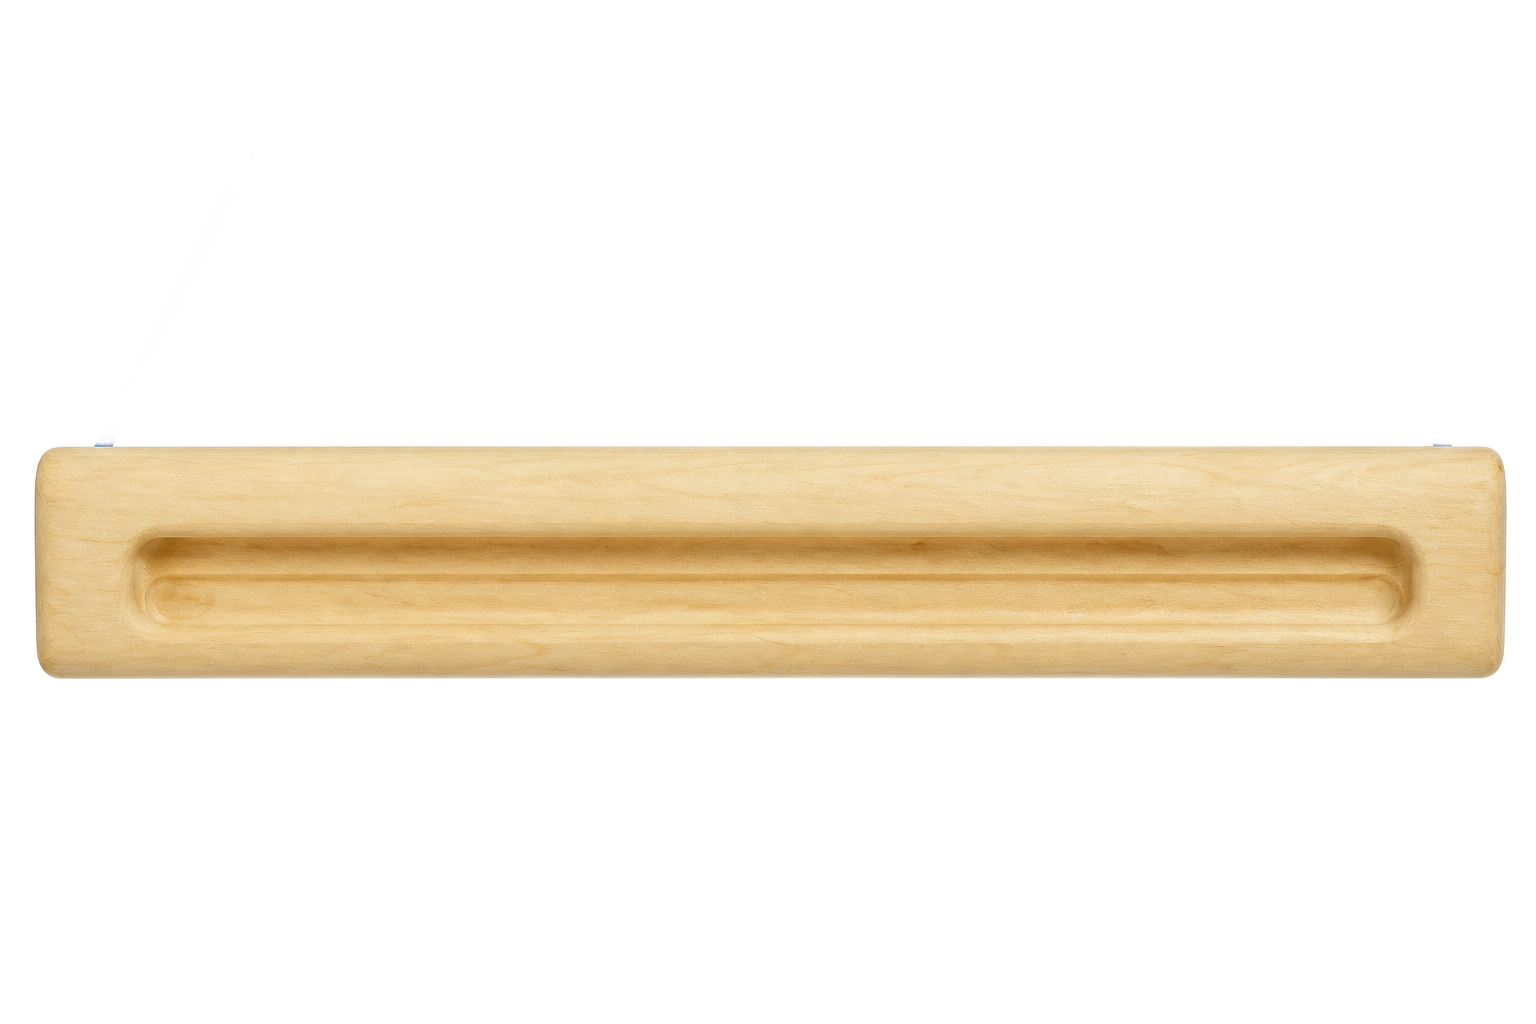
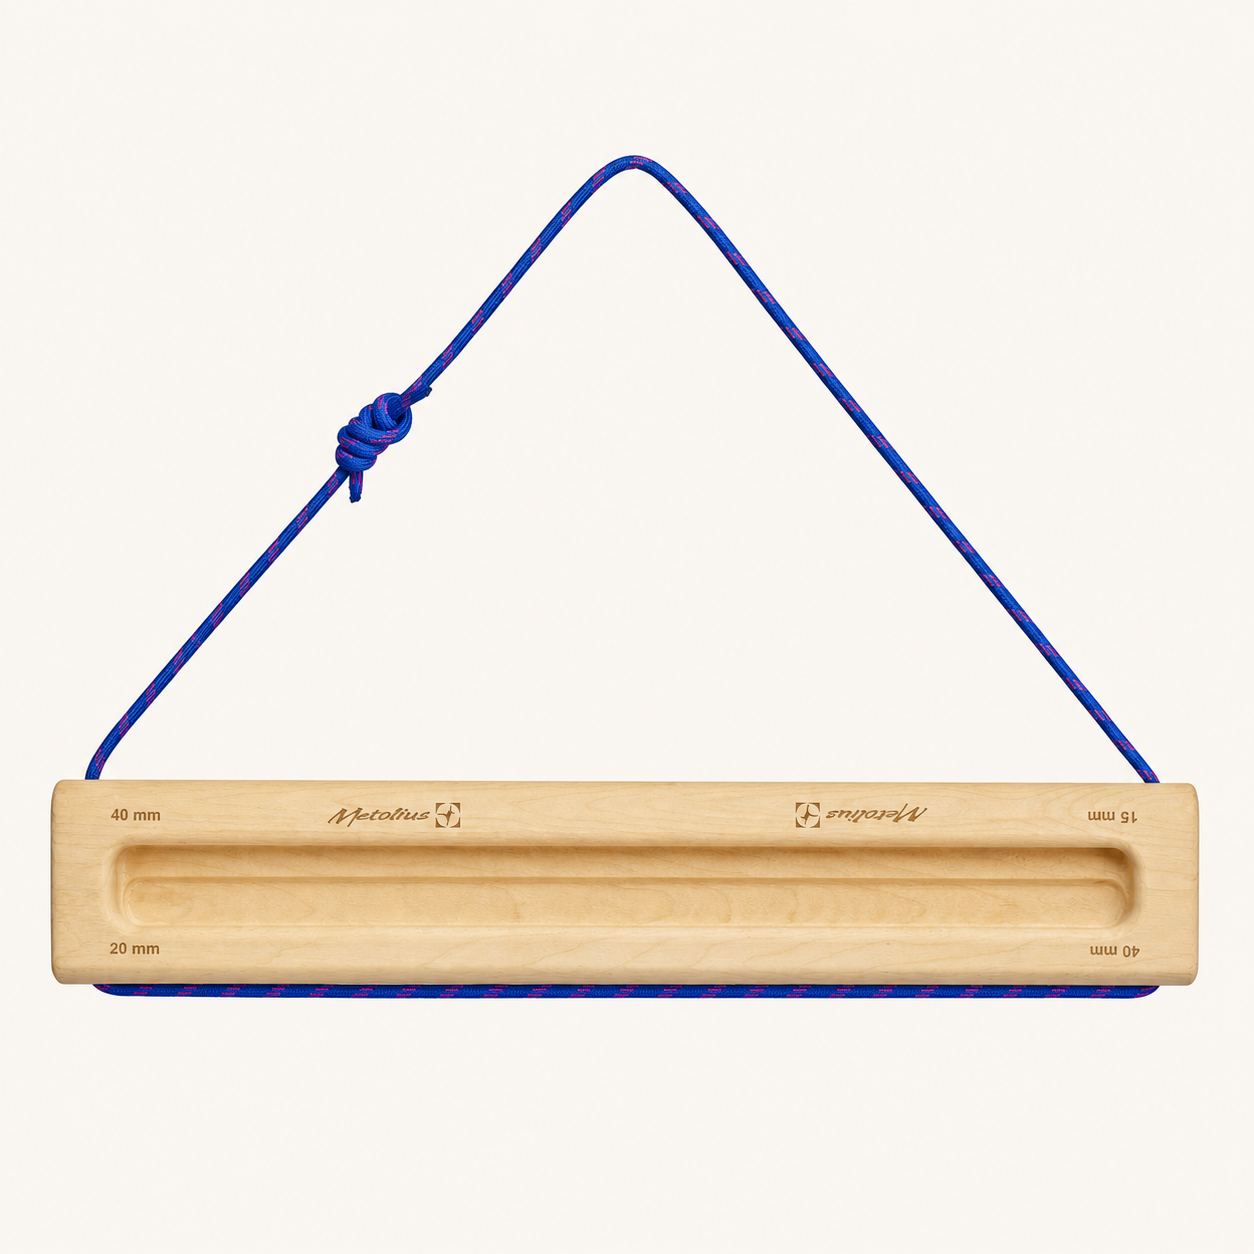
Repair Metolius Light Rail 2 presentations

diff --git a/docs/source-audits/2026-08-30-hangboard-presentation-remediation.md b/docs/source-audits/2026-08-30-hangboard-presentation-remediation.md
@@ -749,3 +749,89 @@ topology, and catalog smoothing/background checks. Final-inventory validation
 and package status passed with 61 packages and no drafts. This deterministic
 recolor/manual-bore repair is the user-approved exception to image generation;
 the schema-2 machine manifest is intentionally unchanged in this bounded pass.
+
+## Metolius Light Rail 2.0 two-position repair (2026-08-31)
+
+The complete current-revision Light Rail 2.0 was freshly re-researched and
+repaired as one atomic reversible product on 2026-08-31. Metolius identifies
+the product as a 18 x 3 x 1.5 in, 0.54 kg portable FSC-certified wooden rail
+whose reversible design yields four holds. The current official product image
+shows one rounded timber body, one long routed channel, a complete blue cord
+with pink flecks and a left knot, upright 40/20 mm markings, and the inverse
+40/15 mm markings. Those four labeled contacts require exactly two physical
+suspension positions: 40/20 mm upright and the same rail inverted in its cord
+with 40/15 mm upright. There is no separate rear working face or third
+mounting position in the current evidence.
+
+Freshly opened evidence:
+
+- Metolius official product page:
+  <https://www.metoliusclimbing.com/products/light-rail>
+- Current official product image:
+  <https://www.metoliusclimbing.com/cdn/shop/files/Light-Rail-2-PT.jpg?v=1767727616>
+- Metolius official training-board manual, whose suspended-device section
+  explicitly covers Light Rails:
+  <https://cdn.shopify.com/s/files/1/0955/0030/4457/files/Training-Board-instructions.pdf?v=1759261826>
+- Treeline Review's independent 2026 hands-on comparison:
+  <https://www.treelinereview.com/gearreviews/best-hangboards-for-climbing>
+- Treeline's published straight-on product view and its genuine tested-at-the-
+  crag owner/reviewer photograph:
+  <https://images.squarespace-cdn.com/content/v1/5b4544e485ede17941bc95fc/b4f8b087-e046-4231-bcbd-f070bb3c85ec/metolius-light-rail-20.jpg>
+  and
+  <https://images.squarespace-cdn.com/content/v1/5b4544e485ede17941bc95fc/452f6e96-37f1-454d-a405-e801658501a5/metolius-light-rail-1.jpg>.
+
+Treeline independently confirms wood construction, single-cord suspension,
+four contacts, and the same one-channel silhouette. Its table reports measured
+edge values that differ slightly from Metolius's current 15/20/40 mm copy;
+the package keeps the manufacturer's current specification and the depth
+markings visibly published on both official and independent photos. Older
+38/18/13 mm images with metal end brackets are a prior revision and were
+explicitly excluded from the current 2.0 render.
+
+The built-in image tool produced one source-constrained candidate for each
+distinct operating position. The 20 mm prompt required the exact current
+single-piece rounded FSC-wood rail, one routed channel, complete blue/pink cord
+loop and left knot, upright 40/20 mm and inverse 40/15 mm markings and Metolius
+marks, a straight-on orthographic working face, no metal brackets, and a warm
+off-white studio field. The 15 mm prompt used the official image and accepted
+20 mm candidate as references, kept the cord above the rail, and required the
+wooden body to be physically inverted so 40/15 mm reads upright while the
+40/20 mm markings read upside-down. Both prompts prohibited crop, perspective,
+extra grooves, extra holes, hardware, hands, walls, and watermarks. Both first
+candidates passed; no second iteration was used.
+
+| Presentation | Declared asset | Scoped holds | Old SHA-256 / dimensions | New SHA-256 / dimensions | Result |
+| --- | --- | --- | --- | --- | --- |
[2 lines of base64/hex data omitted]
+
+The accepted outputs were already the same square canvas, so they were copied
+without resize, crop, padding, stretch, perspective warp, mask, segmentation,
+registration, or local filtering. Each presentation is independently head-on
+to its active working surface: the rail and routed channel edges are horizontal
+and parallel, left/right ends have equal scale, and neither exposes side-depth
+foreshortening. Both include the complete suspension loop, knot/tail, and lower
+cord return. They share one pale natural-wood treatment, subtle grain, soft
+recess lighting, off-white field, edge softness, and smoothing level. A
+side-by-side catalog check against the head-on Frictitious Port-A-Board wood
+presentation confirmed compatible wood texture, recessed shading, cord detail,
+and studio treatment.
+
+Because the new canvases changed the board's placement, the four existing
+rounded-rectangle paths were deliberately repositioned without changing hold
+IDs, kinds, depths, equipment ownership, path command topology, constraints,
+or presentation assignments. Both 40 mm frames are now
+`(0.041, 0.624, 0.916, 0.041)`; the 20 mm channel frame is
+`(0.079, 0.674, 0.842, 0.070)` and the 15 mm channel frame is
+`(0.079, 0.674, 0.842, 0.067)`. Presentation and board aspect ratios changed
+to `1.0` to match the decoded 1254 x 1254 PNGs. `board.json` changed from
[2 lines of base64/hex data omitted]
+
+Workbench loaded both presentation IDs and showed the normal image plus both
+active paths aligned on each position. All four scoped paths were clicked
+individually and became the expected selected hit target. Final-inventory
+package validation and package status passed with 61 packages and no drafts;
+the focused Workbench package suite passed 173 tests. The repair therefore
+passes the all-presentations/all-positions requirement atomically. The
+schema-2 machine manifest is intentionally unchanged in this bounded pass.
